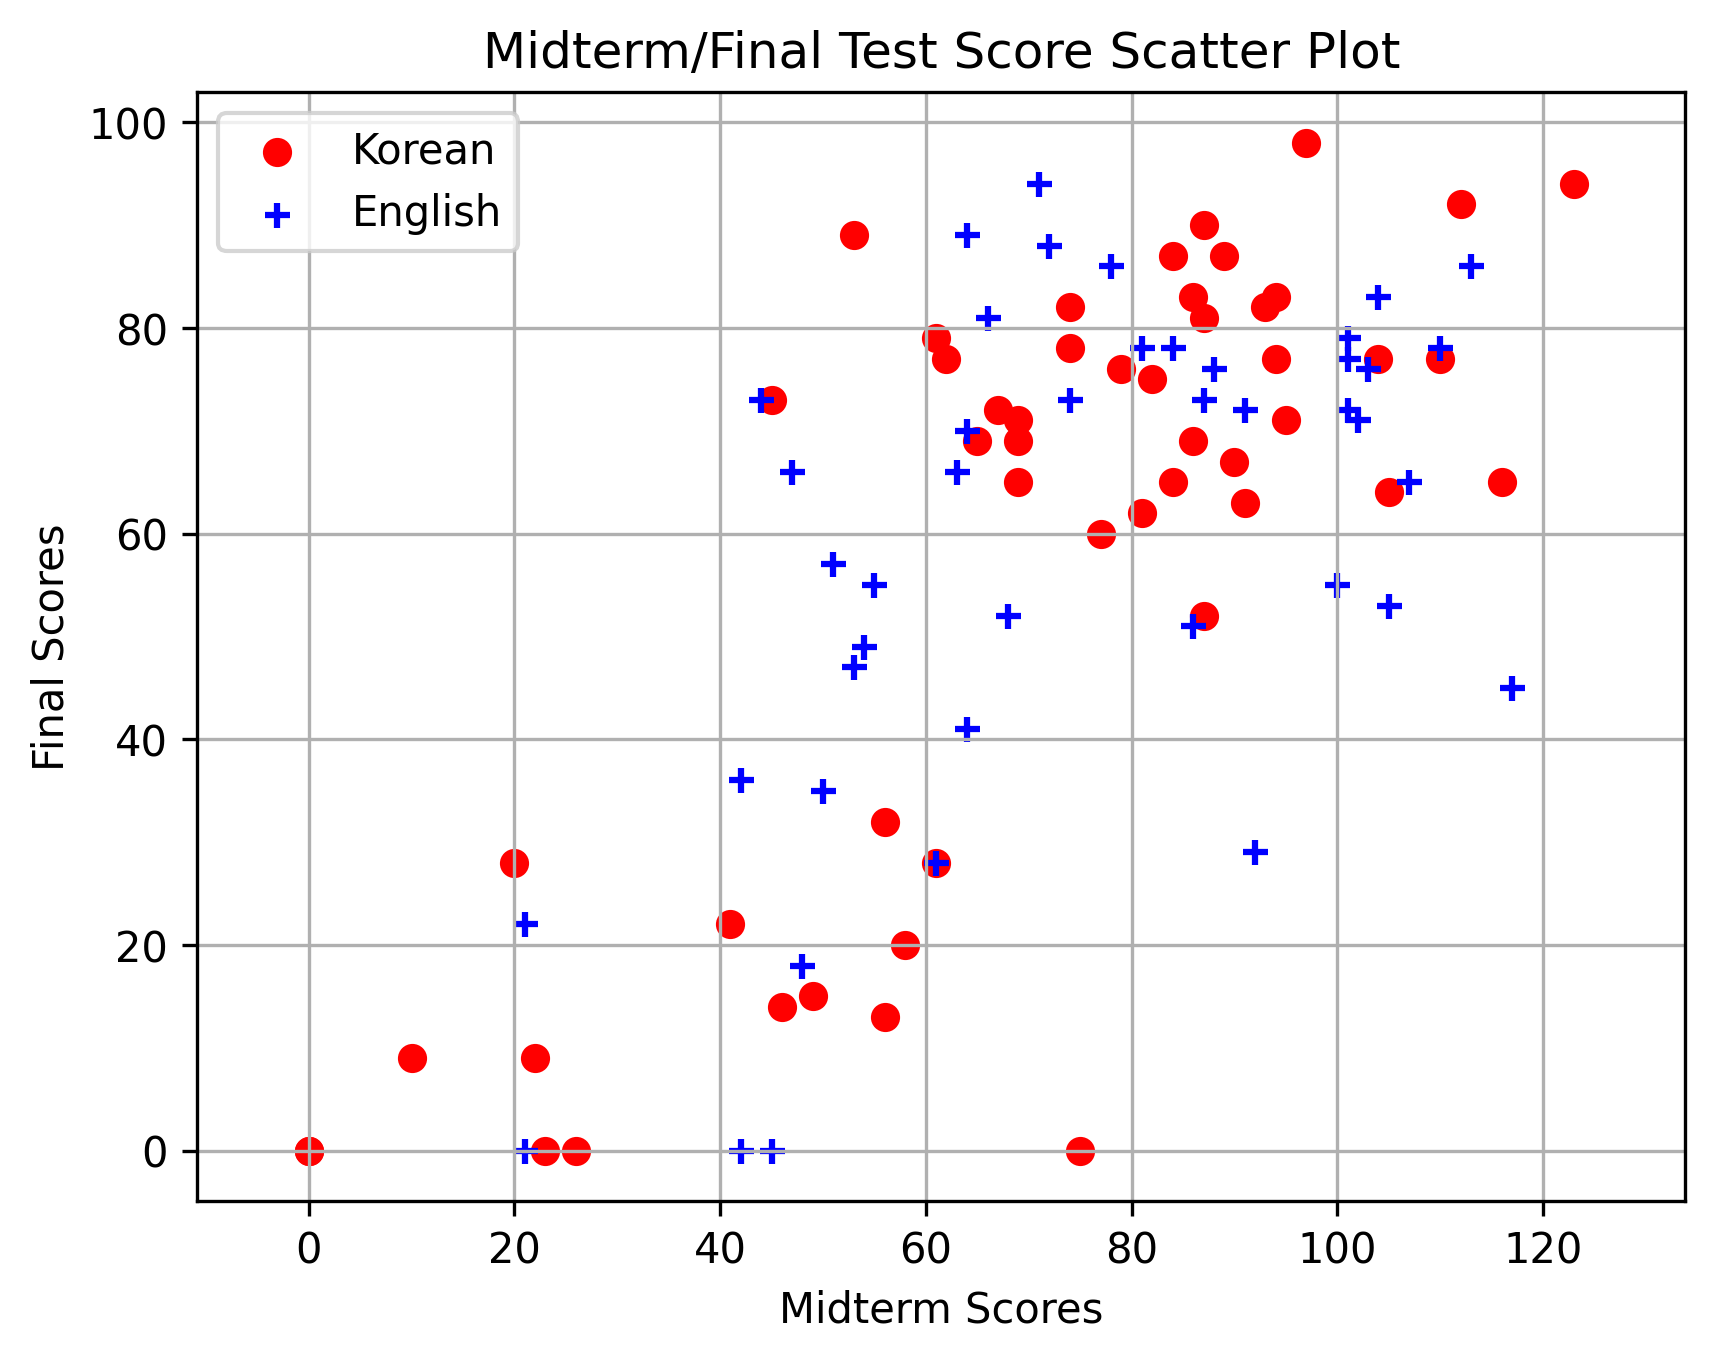
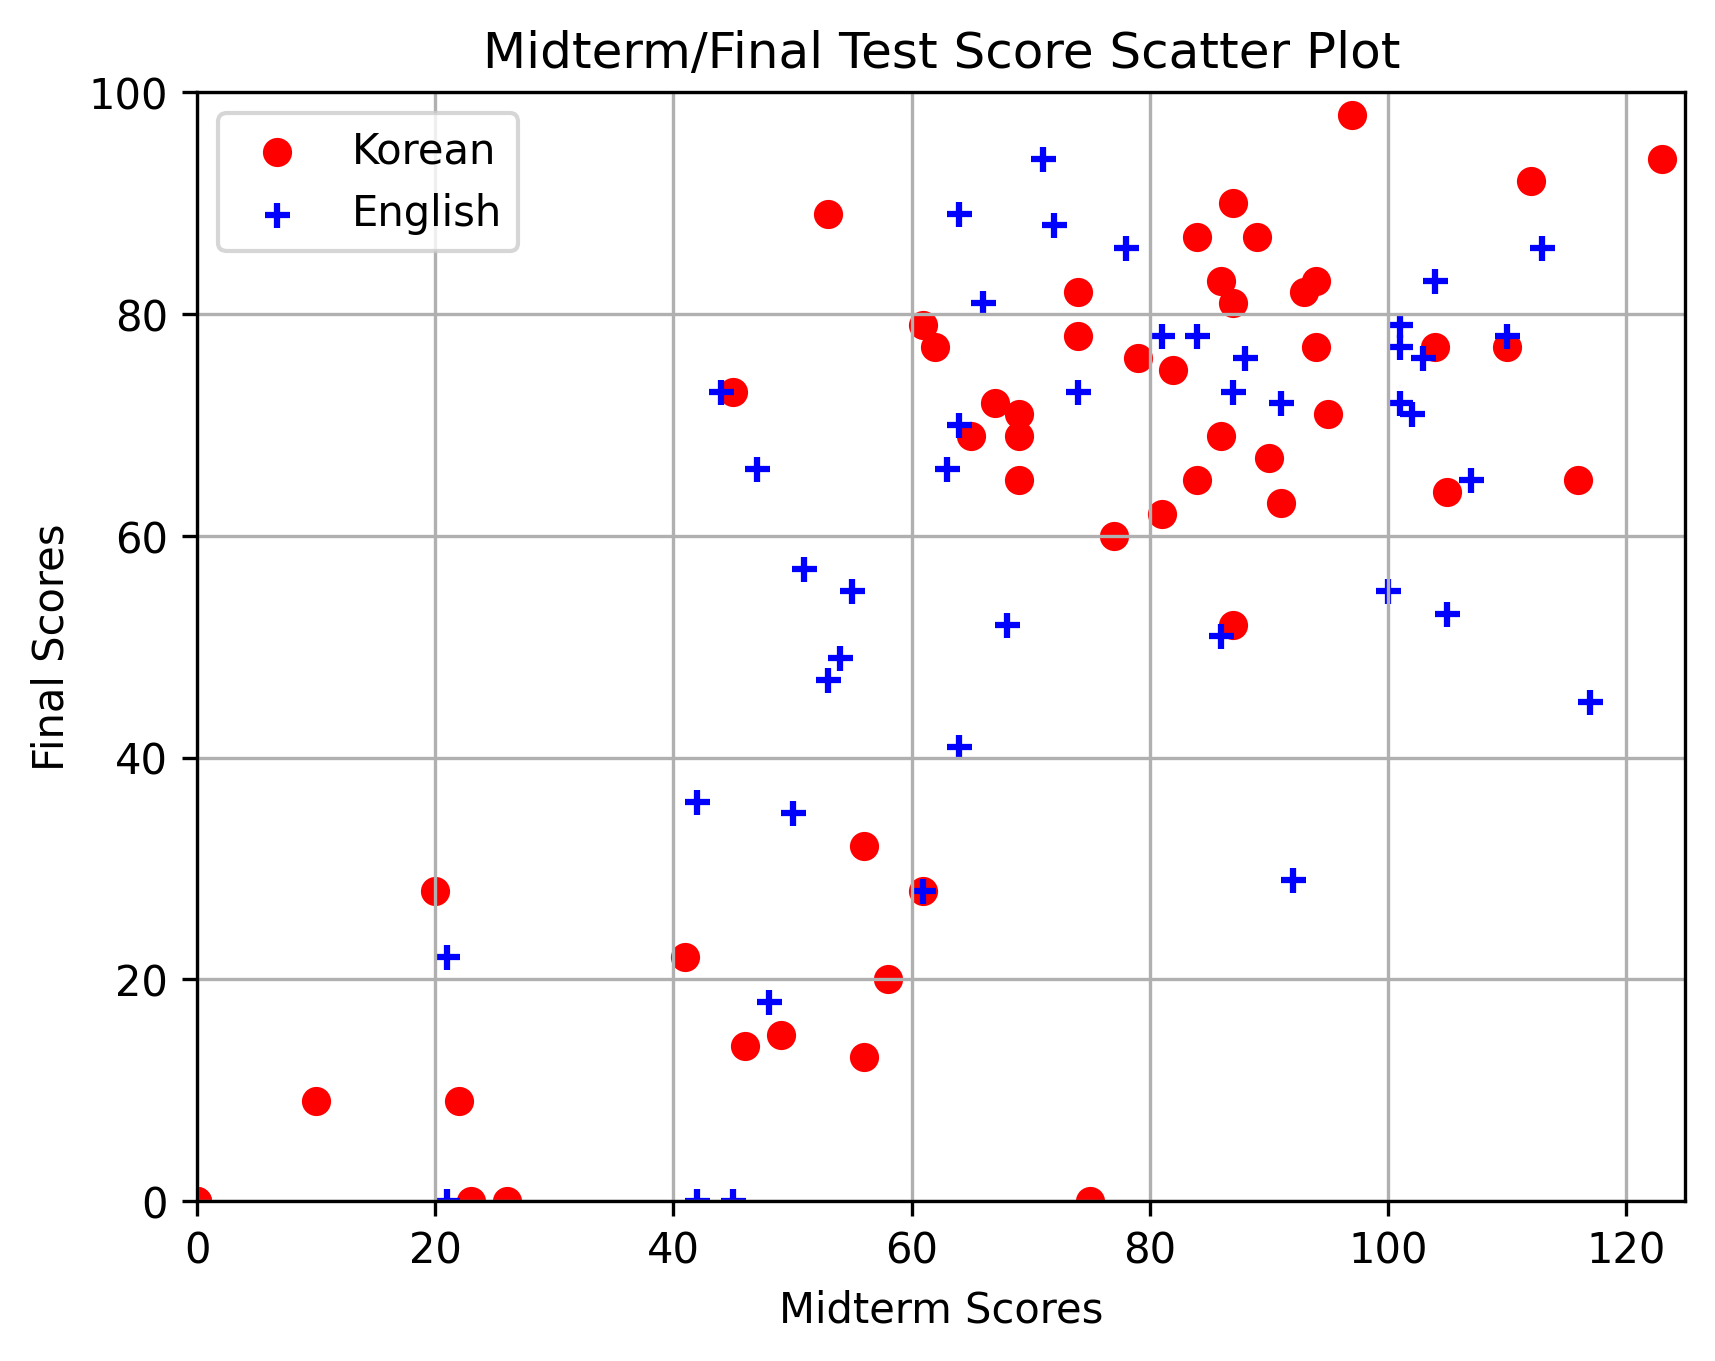
label, legend

diff --git a/Assignment 05/class_score_plot_skeleton.py b/Assignment 05/class_score_plot_skeleton.py
@@ -29,21 +29,26 @@ if __name__ == '__main__':
     plt.legend()
     plt.title("Midterm/Final Test Score Scatter Plot")
     plt.xlabel("Midterm Scores")
-    plt.ylabel("Final Scores")
     plt.xlim(0,125)
     plt.ylim(0,100)
-    plt.axis("equal")
+    plt.ylabel("Final Scores")
+    
     plt.grid()
     plt.savefig("Assignment 05/data/Final_Test_Score_Scatter_Plot.png",dpi=300,bbox_inches='tight')
 
     plt.show()
-
+    
 
     # TODO) Plot total scores as a histogram
 
+
+
     plt.title("Total Test Score Histogram")
-    plt.hist(total_kr,20,label="Korean",color="red",alpha=0.5)
-    plt.hist(total_en,20,label="English",color="blue",alpha=0.5)
+    plt.hist(total_kr,bins=20,label="Korean",color="red",alpha=0.5)
+    plt.hist(total_en,bins=20,label="English",color="blue",alpha=0.5)
+    plt.xlabel("Total Scores")
+    plt.ylabel("The numbers of students")
+    plt.xlim(0,100)
     plt.savefig("Assignment 05/data/Total_Test_Score_Histogram.png",dpi=300,bbox_inches='tight')
     plt.legend()
     plt.show()
